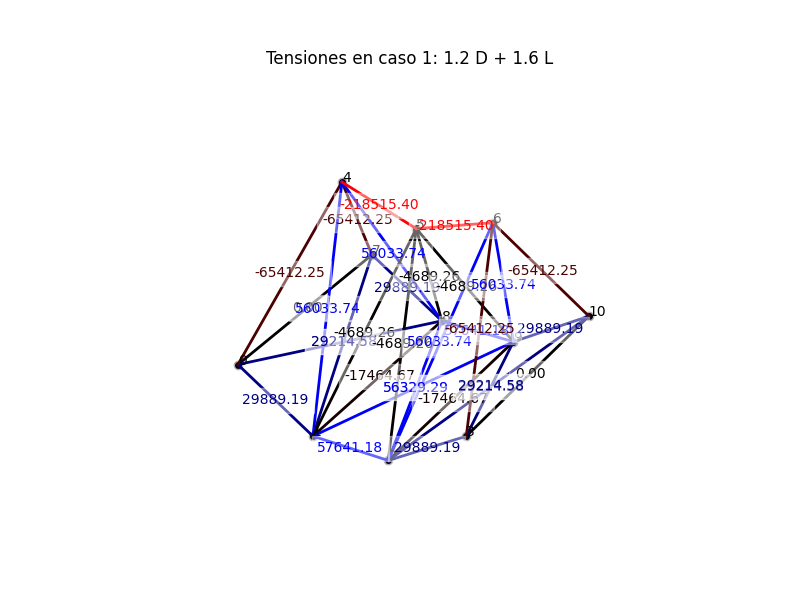
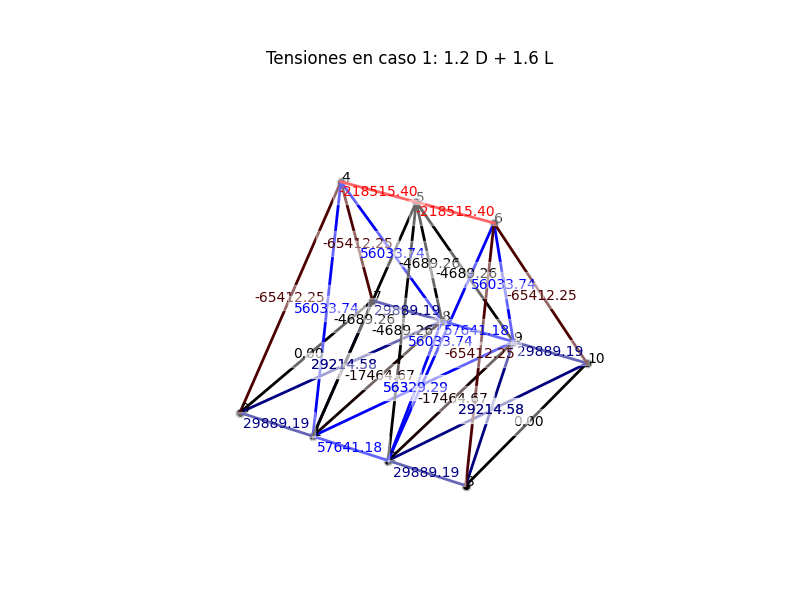
outputs

Changed region(s): [[0.2812, 0.3, 0.75, 0.81]]

diff --git a/ejemplo4.py b/ejemplo4.py
@@ -44,8 +44,9 @@ FU_caso2 = ret_D.recuperar_factores_de_utilizacion(f_2)
 import matplotlib.pyplot as plt
 
 ver_reticulado_3d(ret_D,
+    axis_Equal=False,
     opciones_nodos = {
-        "usar_posicion_deformada": True,
+        "usar_posicion_deformada": False,
         "factor_amplificacion_deformada": 60.,
     },
     opciones_barras = {
@@ -56,7 +57,7 @@ ver_reticulado_3d(ret_D,
         "color_fondo": [1,1,1,0.4]
     }, 
     llamar_show=False,
-    zoom=280.,
+    zoom=180.,
     deshabilitar_ejes=True)
 
 plt.title("Tensiones en caso 1: 1.4 D ")
@@ -67,7 +68,7 @@ plt.show()
 ver_reticulado_3d(ret_D,
     axis_Equal=False,  
     opciones_nodos = {
-        "usar_posicion_deformada": True,
+        "usar_posicion_deformada": False,
         "factor_amplificacion_deformada": 60.,
     },
     opciones_barras = {
